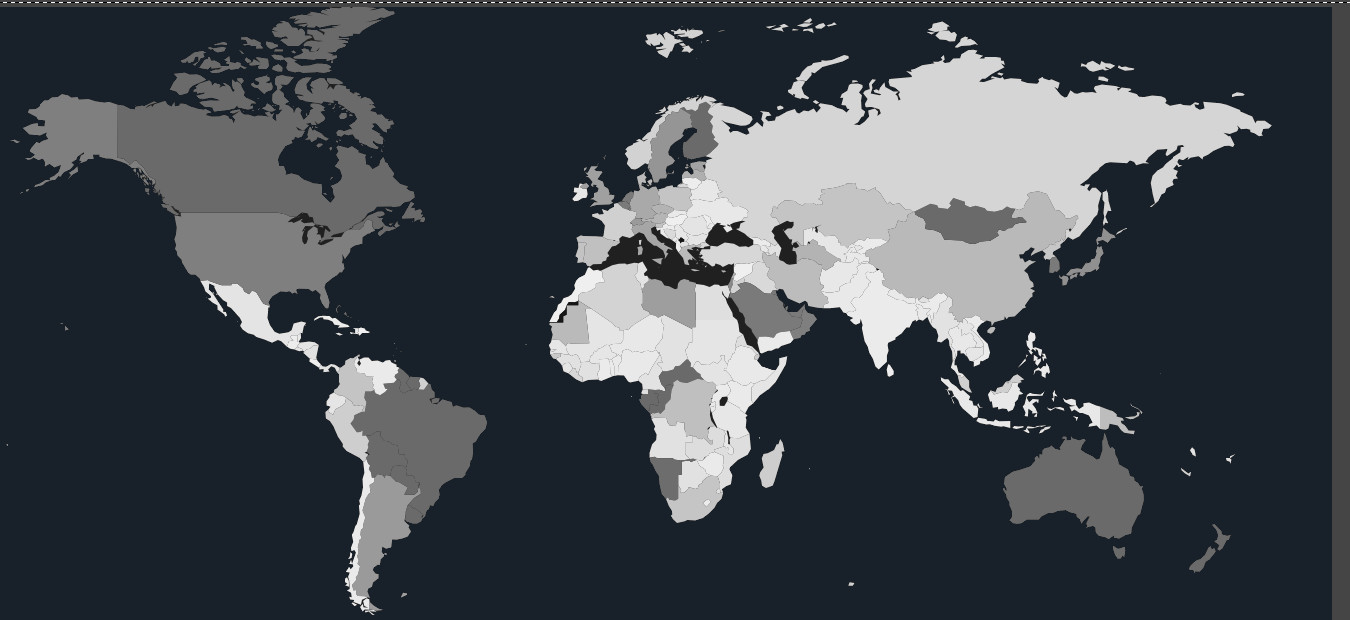
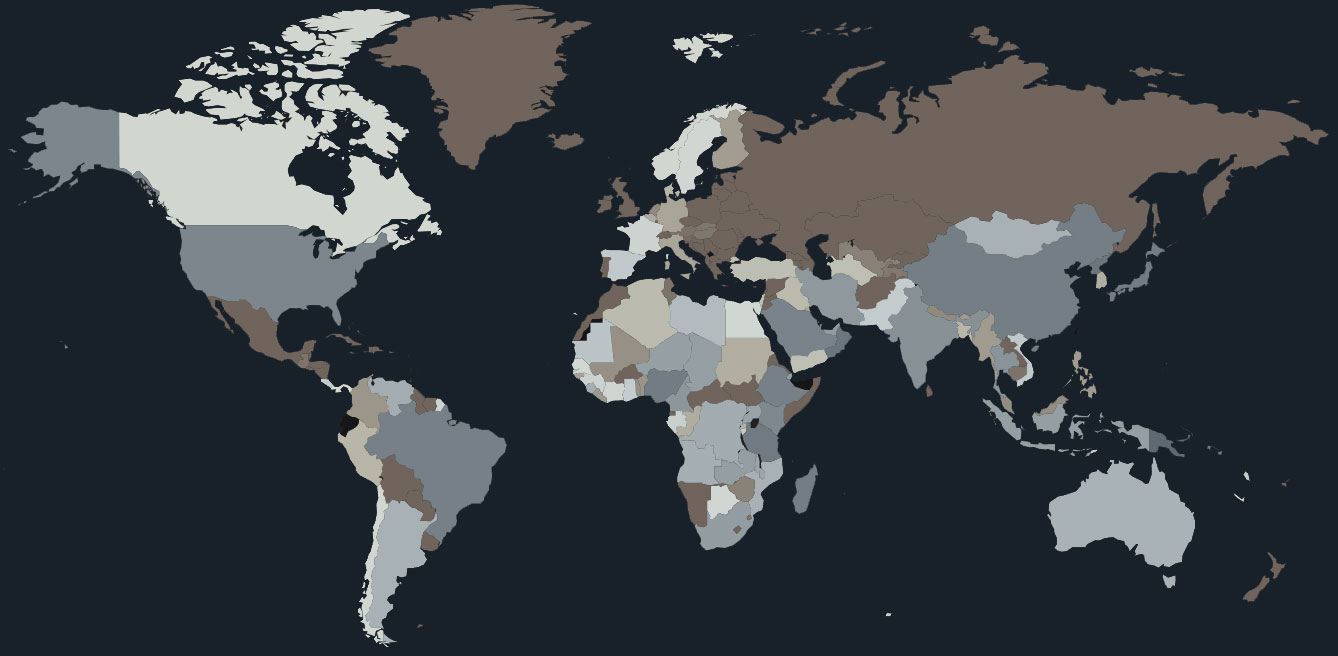
adding loader images on charts

diff --git a/src/store/deathStore.ts b/src/store/deathStore.ts
@@ -60,7 +60,7 @@ export const useDeathStore = defineStore('deathStore', () =>{
     const lifeMapOptions = computed<Highcharts.Options>(() => {
         let options: Highcharts.Options = getLifeMapOptions();
 
-        options.series![0].data = filteredLifeData.value;
+        (options.series![0] as Highcharts.SeriesMapOptions).data = filteredLifeData.value;
         options.tooltip!.formatter = function (this: Highcharts.TooltipFormatterContextObject):string {
             let title: string = fCapital(this.key!);
             let value: number = this.point.value!;
@@ -82,30 +82,30 @@ export const useDeathStore = defineStore('deathStore', () =>{
         };
 
         if (selectedLifeMeasure.value == "Fertility rate") {
-            options.colorAxis!.max = 3;
-            options.colorAxis!.min = 1;
+            (options.colorAxis as Highcharts.ColorAxisOptions).max = 3;
+            (options.colorAxis as Highcharts.ColorAxisOptions).min = 1;
         } else if (selectedLifeMeasure.value == "Life expectancy") {
-            options.colorAxis!.max = 80;
-            options.colorAxis!.min = 30;
+            (options.colorAxis as Highcharts.ColorAxisOptions).max = 80;
+            (options.colorAxis as Highcharts.ColorAxisOptions).min = 30;
         } else if (selectedLifeMeasure.value == "Median age") {
-            options.colorAxis!.max = 45;
-            options.colorAxis!.min = 15;
+            (options.colorAxis as Highcharts.ColorAxisOptions).max = 45;
+            (options.colorAxis as Highcharts.ColorAxisOptions).min = 15;
         } else if (selectedLifeMeasure.value == "Mortality percentage") {
-            options.colorAxis!.max = 2.25;
-            options.colorAxis!.min = 0.25;
+            (options.colorAxis as Highcharts.ColorAxisOptions).max = 2.25;
+            (options.colorAxis as Highcharts.ColorAxisOptions).min = 0.25;
         } else if (selectedLifeMeasure.value == "Population") {
-            options.colorAxis!.max = 500000000;
-            options.colorAxis!.min = 1000000;
+            (options.colorAxis as Highcharts.ColorAxisOptions).max = 500000000;
+            (options.colorAxis as Highcharts.ColorAxisOptions).min = 1000000;
         } else if (selectedLifeMeasure.value == "Population density") {
-            options.colorAxis!.max = 400;
-            options.colorAxis!.min = 0;
+            (options.colorAxis as Highcharts.ColorAxisOptions).max = 400;
+            (options.colorAxis as Highcharts.ColorAxisOptions).min = 0;
         }
 
         return options;
     });
-    const filteredDeathMapData = computed<HCTypes.Mapseries>(() => {
+    const filteredDeathMapData = computed<HCTypes.Mapseries[]>(() => {
         let new_data:HCTypes.MapData[] = [];
-        let new_series:HCTypes.Mapseries[]  = [];
+        let new_series:HCTypes.Mapseries[]  = [{ data: [], name: 'no data', type: 'map' }];
         if (selectedDeathCause.value == "All causes") {
             for (let caus of allMainCauses.value) {
                 for (let row of deathTopCausesRawData.value) {
@@ -130,11 +130,7 @@ export const useDeathStore = defineStore('deathStore', () =>{
             let series:HCTypes.Mapseries = { data: new_data, name: selectedDeathCause.value, type: 'map' }
             new_series.push(series);
         }
-        if (new_series.length > 0) {
-            return new_series;
-        } else {
-            return [{ data: [], name: 'no data', type: 'map' }];
-        }
+        return new_series;
     });
     const deathMapOptions = computed<Highcharts.Options>(() => {
         let options: Highcharts.Options = getDeathMapOptions();
@@ -149,7 +145,7 @@ export const useDeathStore = defineStore('deathStore', () =>{
                 return '<text><span style="font-size: 1.1em"><strong>' + title + '</strong></span><br>Percentage of total deaths: ' + per + '%</text>';
             }
         };
-        options.colorAxis!.maxColor = "#E63333";
+        (options.colorAxis as Highcharts.ColorAxisOptions).maxColor = "#E63333";
         options.plotOptions!.series!.events = {
             click: function (e:any) {
                 if (selectedDeathLocation.value == e.point.name) {
@@ -207,7 +203,7 @@ export const useDeathStore = defineStore('deathStore', () =>{
     const deathTreemapOptions = computed<Highcharts.Options>(() => {
         let options: Highcharts.Options = getDeathTreemapOptions();
 
-        options.series![0].data = fitleredDeathTreemapData.value;
+        (options.series![0] as Highcharts.SeriesTreemapOptions).data = fitleredDeathTreemapData.value;
         options.tooltip!.formatter = function (this: Highcharts.TooltipFormatterContextObject):string {
             let title = fCapital(this.key!);
             let deaths = numberFormatter(this.point!.value!);
@@ -394,7 +390,7 @@ export const useDeathStore = defineStore('deathStore', () =>{
         (options.series![1] as Highcharts.SeriesBarOptions).data = fitleredDeatAgeFemaleData.value;
 
         options.chart!.events = {
-            click: function (this:Worlddata.ClickEvent) {
+            click: function (this:any) {
                 if (selectedDeathAge.value == this.hoverPoint!.category) {
                     selectedDeathAge.value = 'All ages';
                 } else {

diff --git a/src/views/Data/Migration.vue b/src/views/Data/Migration.vue
@@ -27,7 +27,11 @@
             <DropdownMultiple :items="allMapIncomes" v-model="selectedMapIncomes" compId="mapIncomeSelect" class="w-[200px] pt-2"></DropdownMultiple>
             <Slider v-model="mapSliderValue" :min="0" :max="50" class="w-[200px] pt-2"></Slider>
         </div>
-         <highcharts :constructorType="'mapChart'" :options="mapOptions" class="w-full h-[50vh] lg:h-[80vh]"></highcharts>
+        <div class="w-full h-[50vh] lg:h-[80vh]">
+          <highcharts v-if="mapOptions && mapOptions.series!.length > 0 && (mapOptions.series![0] as Highcharts.SeriesMapOptions).data!.length > 0" :constructorType="'mapChart'" :options="mapOptions" class="h-full w-full"></highcharts>
+          <div v-else class="w-full h-full animate-pulse bg-demo-map bg-contain bg-center bg-no-repeat mt-[3px]"></div>
+         </div>
+
         <div class="source-text">
           <p>
              *Source:
@@ -57,7 +61,10 @@
           <Dropdown :items="allTreemapYears" v-model="selectedTreemapYear" class="w-[200px] pt-2"></Dropdown>
           <RadioButtons :items="treemapRadioItems" id="radio2" v-model="selectedTreemapMeasure" direction="row" class="pt-2" ></RadioButtons>
         </div>
-        <highcharts :options="treemapOptions" class="w-full h-[60vh]"></highcharts>
+        <div class="w-full h-[60vh]">
+          <highcharts v-if="treemapOptions && treemapOptions.series!.length > 0 && (treemapOptions.series![0] as Highcharts.SeriesTreemapOptions).data!.length > 0" :options="treemapOptions" class="h-full w-full"></highcharts>
+          <div v-else class="w-full h-full animate-pulse bg-demo-treemap bg-contain bg-center bg-no-repeat"></div>
+        </div>
 
       </figure>
       <div class="source-text">
@@ -80,8 +87,10 @@
         </p>
       </div>
       <figure class="flex flex-col lg:flex-row items-center px-base">
-
-        <highcharts :options="wheelOptions" class="w-8/12 h-[50vh] lg:min-h-[80vh]"></highcharts>
+        <div class="w-8/12 h-[50vh] lg:min-h-[80vh]">
+          <highcharts v-if="wheelOptions && wheelOptions.series!.length > 0 && (wheelOptions.series![0] as Highcharts.SeriesTreemapOptions).data!.length > 0" :options="wheelOptions" class="h-full w-full"></highcharts>
+          <div v-else class="w-full h-full animate-pulse bg-demo-wheel bg-contain bg-center bg-no-repeat"></div>
+        </div>
         <div class="w-full lg:w-4/12 flex flex-col justify-start">
           <RadioButtons :items="wheelRadioItems" id="radio1" v-model="selectedWheelMeasure" class="w-48" direction="row"></RadioButtons>
           <!-- Legend -->

diff --git a/src/views/Data/Death.vue b/src/views/Data/Death.vue
@@ -81,7 +81,10 @@
             <Dropdown :items="allLifeMeasures" v-model="selectedLifeMeasure" class="w-[400px]"></Dropdown>
             <Dropdown :items="allLifeYears" v-model="selectedLifeYear" class="w-[200px]"></Dropdown>
         </div>
-        <highcharts :constructorType="'mapChart'" :options="lifeMapOptions" class="w-full h-[50vh] lg:h-[80vh]"></highcharts>
+        <div class="w-full h-[50vh] lg:h-[80vh]">
+          <highcharts v-if="lifeMapOptions && lifeMapOptions.series!.length > 0 && (lifeMapOptions.series![0] as Highcharts.SeriesMapOptions).data!.length > 0" :constructorType="'mapChart'" :options="lifeMapOptions" class="w-full h-full"></highcharts>
+          <div v-else class="w-full h-full animate-pulse bg-demo-map bg-contain bg-center bg-no-repeat mt-[3px]"></div>
+        </div>
         <div class="source-text">
           <p>*Source:
             <a href="http://data.un.org/" target="_blank">United Nations </a>
@@ -140,7 +143,10 @@
         </p>
       </div>
       <figure>
-        <highcharts :options="deathTreemapOldOptions" class="w-full h-[305px]"></highcharts>
+        <div class="w-full h-[305px]">
+          <highcharts v-if="deathTreemapOldOptions && deathTreemapOldOptions.series!.length > 0 && (deathTreemapOldOptions.series![0] as Highcharts.SeriesTreemapOptions).data!.length > 0" :options="deathTreemapOldOptions" class="w-full h-full"></highcharts>
+          <div v-else class="w-full h-full animate-pulse bg-demo-treemap bg-contain bg-center bg-no-repeat mt-[3px]"></div>
+        </div>
       </figure>
       <div class="source-text">
         <p>*Source:

diff --git a/src/views/Data/Biodiversity.vue b/src/views/Data/Biodiversity.vue
@@ -19,7 +19,10 @@
         <div class="w-full lg:w-3/12 flex justify-end">
           <RadioButtons :items="radioItems" id="radio1" v-model="selectedPlants" class="w-full" :direction="radioDirection"></RadioButtons>
         </div>
-        <highcharts :options="sunburstOptions" class="h-[50vh] md:h-[70vh] lg:w-9/12"></highcharts>
+        <div class="h-[50vh] md:h-[70vh] lg:w-9/12">
+          <highcharts v-if="sunburstOptions && sunburstOptions.series!.length > 0 && (sunburstOptions.series![0] as Highcharts.SeriesSunburstOptions).data!.length > 0" :options="sunburstOptions" class="w-full h-full"></highcharts>
+          <div v-else class="w-full h-full animate-pulse bg-demo-sunburst bg-contain bg-center bg-no-repeat mt-[3px]"></div>
+        </div>
       </figure>
       <div class="source-text">
           <p>
@@ -39,7 +42,10 @@
         </p>
       </div>
       <figure>
-        <highcharts :options="scatterOptions" ></highcharts>
+        <div class="h-[350px]">
+          <highcharts v-if="scatterOptions && scatterOptions.series!.length > 0 && (scatterOptions.series![0] as Highcharts.SeriesScatterOptions).data!.length > 0" :options="scatterOptions" class="w-full h-full"></highcharts>
+          <div v-else class="w-full h-full animate-pulse bg-demo-bubbles bg-contain bg-center bg-no-repeat mt-[3px]"></div>
+        </div>
       </figure>
       <div class="source-text">
           <p>

diff --git a/tailwind.config.js b/tailwind.config.js
@@ -160,7 +160,23 @@ export default {
         'header-small': "url('/images/banner.jpg')",
         'footer': "url('/images/footer.jpg')",
         'logo': "url('/svg/logo.svg')",
-        'demo-map': "url('/images/demo/map.jpg')"
+        'demo-map': "url('/images/demo/map.jpg')",
+        'demo-area': "url('/images/demo/area.jpg')",
+        'demo-bars': "url('/images/demo/bars.jpg')",
+        'demo-bars-stacked': "url('/images/demo/bars-stacked.jpg')",
+        'demo-bubbles': "url('/images/demo/bubbles.jpg')",
+        'demo-columns': "url('/images/demo/columns.jpg')",
+        'demo-columns-line': "url('/images/demo/columns-line.jpg')",
+        'demo-columns-lines': "url('/images/demo/columns-lines.jpg')",
+        'demo-columns-stacked': "url('/images/demo/columns-stacked.jpg')",
+        'demo-map-light': "url('/images/demo/map-light.jpg')",
+        'demo-pyramid': "url('/images/demo/pyramid.jpg')",
+        'demo-sunburst': "url('/images/demo/sunburst.jpg')",
+        'demo-treemap': "url('/images/demo/treemap.jpg')",
+        'demo-treemap-light': "url('/images/demo/treemap-light.jpg')",
+        'demo-wheel': "url('/images/demo/wheel.jpg')",
+        'demo-area-light': "url('/images/demo/area-light.jpg')",
+        'demo-sunburst-light': "url('/images/demo/sunburst-light.jpg')",
       },
       fontSize: {
         sm: ['clamp(0.4rem, 2vw, 0.9rem)', '1.25rem'],

diff --git a/src/views/Data/Sustainability.vue b/src/views/Data/Sustainability.vue
@@ -39,7 +39,7 @@
         </div>
         <div class="w-full h-[50vh] lg:h-[80vh]">
           <highcharts v-if="dataLoaded" :constructorType="'mapChart'" :options="mapOptions" class="h-full w-full"></highcharts>
-          <div v-else class="w-full h-full  animate-pulse bg-demo-map bg-cover bg-center bg-no-repeat mt-[3px]"></div>
+          <div v-else class="w-full h-full animate-pulse bg-demo-map bg-contain bg-center bg-no-repeat mt-[3px]"></div>
         </div>
         
         <div class="source-text">
@@ -66,7 +66,7 @@
         </div>
         <div class="w-full h-[50vh] mt-3">
           <highcharts v-if="dataLoaded" :options="areaOptions" class="h-full w-full"></highcharts>
-          <div v-else class="w-8 h-8 animate-spin-slow bg-logo bg-cover bg-center bg-no-repeat mt-[3px]"></div>
+          <div v-else class="w-full h-full animate-pulse bg-demo-area bg-contain bg-center bg-no-repeat mt-[3px]"></div>
         </div>
         <div class="source-text">
         <p>

diff --git a/src/components/Covid/Hospitals.vue b/src/components/Covid/Hospitals.vue
@@ -2,8 +2,14 @@
   <div>
     <figure class="dash-card h-full">
       <h5 class="pb-2">COVID-19 hospitalizations</h5>
-      <highcharts v-if="hospitalsOptions.series && hospitalsOptions.series[0].data.length > 0" :options="hospitalsOptions" style="height: calc(100% - 30px);"></highcharts>
-      <div v-else class="no-data" style="height: calc(100% - 30px);">No data available</div>
+      <div class="w-full" style="height:calc(100% - 30px)">
+        <div v-if="hospitalsOptions && hospitalsOptions.series" class="h-full w-full">
+          <highcharts v-if="(hospitalsOptions.series[0] as Highcharts.SeriesBarOptions).data!.length > 0" :options="hospitalsOptions" class="h-full w-full"></highcharts>
+          <div v-else class="no-data h-full">No data available</div>
+        </div>
+        <div v-else class="w-full h-full animate-pulse bg-demo-columns-stacked bg-contain bg-center bg-no-repeat mt-[3px]"></div>
+      </div>
+      
     </figure>
   </div>
 </template>

diff --git a/src/components/Covid/Mortality.vue b/src/components/Covid/Mortality.vue
@@ -2,8 +2,13 @@
   <div>
     <figure class="dash-card h-full">
       <h5 class="pb-2">{{ title }}</h5>
-      <highcharts v-if="excessOptions.series && excessOptions.series[0].data.length > 0" :options="excessOptions" style="height: calc(100% - 40px);"></highcharts>
-      <div v-else class="no-data" style="height: calc(100% - 40px);">No data available</div>
+      <div class="w-full" style="height: calc(100% - 40px);">
+        <div v-if="excessOptions && excessOptions.series" class="h-full w-full">
+          <highcharts v-if="(excessOptions.series[0] as Highcharts.SeriesBarOptions).data!.length > 0" :options="excessOptions" class="h-full"></highcharts>
+          <div v-else class="no-data h-full">No data available</div>
+        </div>
+        <div v-else class="w-full h-full animate-pulse bg-demo-columns-lines bg-contain bg-center bg-no-repeat"></div>
+      </div>
     </figure>
   </div>
 </template>

diff --git a/src/components/Covid/Map.vue b/src/components/Covid/Map.vue
@@ -16,7 +16,11 @@
         <DashCommand text="Click on the play button to animate"></DashCommand>
       </div>
       <DashCommand text="Click on the map to select a country"></DashCommand>
-      <highcharts :constructorType="'mapChart'" :options="mapOptions" class="w-full covid-map" style="height:calc(100% - 100px)"></highcharts>
+      <!-- <highcharts  :options="mapOptions" class="w-full covid-map" style="height:calc(100% - 100px)"></highcharts> -->
+      <div class="w-full" style="height:calc(100% - 100px)">
+        <highcharts v-if="mapOptions && mapOptions.series!.length > 0" :options="mapOptions" :constructorType="'mapChart'" class="w-full h-full covid-map"></highcharts>
+        <div v-else class="w-full h-full animate-pulse bg-demo-map bg-contain bg-center bg-no-repeat mt-[3px]"></div>
+      </div>
     </figure>
   </template>
 

diff --git a/src/components/Death/Map.vue b/src/components/Death/Map.vue
@@ -1,8 +1,11 @@
 <template>
   <figure class="bg-gray h-full">
-      <h5>{{ mapTitle }}</h5>
-      <DashCommand text="Click on the map to select a country"></DashCommand>
-      <highcharts :constructorType="'mapChart'" :options="deathMapOptions" class="w-full death-map" style="height:calc(100% - 45px)"></highcharts>
+    <h5>{{ mapTitle }}</h5>
+    <DashCommand text="Click on the map to select a country"></DashCommand>
+    <div class="w-full" style="height:calc(100% - 45px)">
+      <highcharts v-if="deathMapOptions && deathMapOptions.series!.length > 0" :constructorType="'mapChart'" :options="deathMapOptions" class="w-full h-full death-map"></highcharts>
+      <div v-else class="w-full h-full animate-pulse bg-demo-map bg-contain bg-center bg-no-repeat mt-[3px]"></div>
+    </div>
   </figure>
 </template>
 

diff --git a/src/components/Energy/Map.vue b/src/components/Energy/Map.vue
@@ -4,7 +4,10 @@
         <RadioButtons :items="energyRadioItems" id="radio1" v-model="selectedSource" class="pb-2 ml-[-10px]" direction="row"></RadioButtons>
         <h5>{{ mapTitle }}</h5>
         <DashCommand text="Click on the map to select a country"></DashCommand>
-        <highcharts :constructorType="'mapChart'" :options="mapOptions" class="w-full energy-map" style="height:calc(100% - 100px)"></highcharts>
+        <div class="w-full" style="height:calc(100% - 100px)">
+          <highcharts v-if="mapOptions && mapOptions.series!.length > 0" :constructorType="'mapChart'" :options="mapOptions" class="w-full h-full death-map"></highcharts>
+          <div v-else class="w-full h-full animate-pulse bg-demo-map bg-contain bg-center bg-no-repeat mt-[3px]"></div>
+        </div>
     </figure>
   </template>
 

diff --git a/src/components/Energy/Sunburst.vue b/src/components/Energy/Sunburst.vue
@@ -1,7 +1,10 @@
 <template>
     <figure class="dash-card h-full">
       <h5 class="pb-2">{{selectedCountry}}'s energy use by sector</h5>
-      <highcharts :options="sunburstOptions" style="height: calc(100% - 110px);"></highcharts>
+      <div class="w-full" style="height:calc(100% - 110px)">
+        <highcharts v-if="sunburstOptions && sunburstOptions.series!.length > 0 && (sunburstOptions.series![0] as Highcharts.SeriesBarOptions).data!.length > 0" :options="sunburstOptions" class="w-full h-full"></highcharts>
+        <div v-else class="w-full h-full animate-pulse bg-demo-sunburst-light bg-contain bg-center bg-no-repeat mt-[3px]"></div>
+      </div>
       <!-- legend -->
       <div class="flex mt-2 justify-center flex-wrap">
         <div v-for="item in sunburstLegendItems" class="flex  mr-5">
